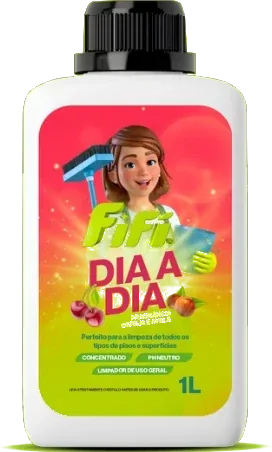
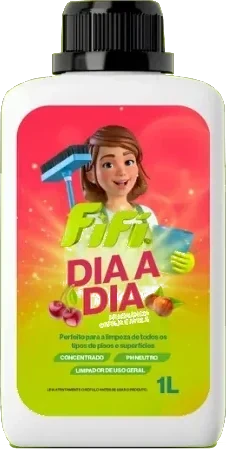
fix(distribuidor): gôndola padronizada, formulário em 320px e prévia de compartilhamento atual
- Gôndola: legenda também na prateleira de 5L (Nanotecnologia · Linha completa) e sem o
  "prato" no pé de nenhum frasco (tirado das 4 fotos Pet, dos 1L Dia a Dia/Organic
  Pro/Pós-Obra e do Citrus 500ml, que tinha um brilho fino).
- Fotos: furos de transparência dentro do rótulo preenchidos (1L Dia a Dia, Organic Pro,
  Pós-Obra e Citrus 500ml); no fundo escuro apareciam como pontos verdes.
- Mobile: formulário estourava 47px em telas de 320px (grades com 1fr não encolhiam
  abaixo da largura natural dos inputs). Agora minmax(0, 1fr).
- og-revenda.jpg regerada: a antiga ainda tinha "Leva 1 minuto" e a gôndola de 2
  prateleiras. og:image com ?v=2 para furar o cache do WhatsApp/Facebook.
- Logos com width/height na proporção real (evita o pulo do cabeçalho ao carregar).
- Mensagem de erro do formulário: recusa da API (400) pede para conferir os dados, não
  a conexão.

diff --git a/distribuidor/index.html b/distribuidor/index.html
@@ -15,7 +15,7 @@
   <meta property="og:site_name" content="FIFI Limpeza">
   <meta property="og:title" content="Seja revendedor FIFI">
   <meta property="og:description" content="Coloque na sua loja a linha de limpeza de verdade e mais consciente. Sem pedido mínimo.">
-  <meta property="og:image" content="https://mkt.fifilimpeza.com/distribuidor/img/og-revenda.jpg">
+  <meta property="og:image" content="https://mkt.fifilimpeza.com/distribuidor/img/og-revenda.jpg?v=2">
   <meta property="og:image:width" content="1200">
   <meta property="og:image:height" content="630">
   <meta property="og:image:alt" content="Prateleira com produtos de limpeza FIFI">
@@ -28,14 +28,14 @@
   </script>
   <!-- Liga as animações só se o movimento estiver liberado. Roda antes da pintura: sem piscar. -->
   <script>if(matchMedia("(prefers-reduced-motion: no-preference)").matches&&"IntersectionObserver"in window)document.documentElement.classList.add("js-motion")</script>
-  <link rel="stylesheet" href="styles.css?v=7">
+  <link rel="stylesheet" href="styles.css?v=9">
 </head>
 <body class="revisao">
 <a class="skip-link" href="#conteudo">Pular para o conteúdo</a>
 
 <header class="site-header">
   <a class="brand" href="#topo" aria-label="FIFI, início da página">
-    <img class="brand-mark" src="img/logo-fifi-branco.webp" alt="FIFI" width="92" height="30">
+    <img class="brand-mark" src="img/logo-fifi-branco.webp" alt="FIFI" width="57" height="28">
     <span class="brand-sub">Revenda</span>
   </a>
   <nav aria-label="Seções">
@@ -68,9 +68,9 @@
     <div class="shelf-unit">
       <div class="shelf shelf-top">
         <div class="shelf-items">
-          <img src="img/500ml-citrus-5d.webp" alt="" width="180" height="395">
+          <img src="img/500ml-citrus-5d.webp?v=2" alt="" width="163" height="392">
           <img src="img/500ml-vidro-vip.webp" alt="" width="203" height="480">
-          <img src="img/pet-textil-500ml.webp" alt="" width="208" height="480">
+          <img src="img/pet-textil-500ml.webp?v=2" alt="" width="197" height="472">
           <img src="img/500ml-limpa-rejunte.webp" alt="" width="203" height="480">
           <img src="img/500ml-odor-vip.webp" alt="" width="203" height="480">
         </div>
@@ -78,9 +78,9 @@
       </div>
       <div class="shelf shelf-bottom">
         <div class="shelf-items">
-          <img src="img/1l-dia-a-dia.webp" alt="" width="272" height="452">
-          <img src="img/pet-ph-neutro-1l.webp" alt="" width="296" height="480">
-          <img src="img/1l-pos-obra.webp" alt="" width="272" height="452">
+          <img src="img/1l-dia-a-dia.webp?v=2" alt="" width="226" height="449">
+          <img src="img/pet-ph-neutro-1l.webp?v=2" alt="" width="237" height="469">
+          <img src="img/1l-pos-obra.webp?v=2" alt="" width="226" height="449">
           <img src="img/1l-limpa-mofo.webp" alt="" width="250" height="480">
         </div>
         <div class="plank"><span class="tag">Biodegradável</span><span class="tag">Pet friendly</span></div>
@@ -91,7 +91,7 @@
           <img src="img/5l-organic-pro.webp" alt="" width="321" height="480">
           <img src="img/5l-limpa-musgo.webp" alt="" width="321" height="480">
         </div>
-        <div class="plank"></div>
+        <div class="plank"><span class="tag">Nanotecnologia</span><span class="tag">Linha completa</span></div>
       </div>
     </div>
   </div>
@@ -175,8 +175,8 @@
       <p class="chips">Multiuso · Desengordurante · Limpa-vidros · Limpeza de banheiro · Aromatizantes</p>
     </div>
     <ul class="products">
-      <li class="is-500ml"><span class="p-img"><img src="img/500ml-citrus-5d.webp" loading="lazy" alt="FIFI Citrus 5D 500ml" width="180" height="395" decoding="async"></span><span class="p-name">Citrus 5D<span class="p-size">500ml</span></span></li>
-      <li class="is-1l"><span class="p-img"><img src="img/1l-dia-a-dia.webp" loading="lazy" alt="FIFI Dia a Dia 1L" width="272" height="452" decoding="async"></span><span class="p-name">Dia a Dia<span class="p-size">1L</span></span></li>
+      <li class="is-500ml"><span class="p-img"><img src="img/500ml-citrus-5d.webp?v=2" loading="lazy" alt="FIFI Citrus 5D 500ml" width="163" height="392" decoding="async"></span><span class="p-name">Citrus 5D<span class="p-size">500ml</span></span></li>
+      <li class="is-1l"><span class="p-img"><img src="img/1l-dia-a-dia.webp?v=2" loading="lazy" alt="FIFI Dia a Dia 1L" width="226" height="449" decoding="async"></span><span class="p-name">Dia a Dia<span class="p-size">1L</span></span></li>
       <li class="is-500ml"><span class="p-img"><img src="img/500ml-vidro-vip.webp" loading="lazy" alt="FIFI Vidro Vip 500ml" width="203" height="480" decoding="async"></span><span class="p-name">Vidro Vip<span class="p-size">500ml</span></span></li>
       <li class="is-500ml"><span class="p-img"><img src="img/500ml-limpa-rejunte.webp" loading="lazy" alt="FIFI Limpa Rejunte 500ml" width="203" height="480" decoding="async"></span><span class="p-name">Limpa Rejunte<span class="p-size">500ml</span></span></li>
       <li class="is-500ml"><span class="p-img"><img src="img/500ml-odor-vip.webp" loading="lazy" alt="FIFI Odor Vip 500ml" width="203" height="480" decoding="async"></span><span class="p-name">Odor Vip<span class="p-size">500ml</span></span></li>
@@ -191,8 +191,8 @@
       <p class="chips">Pós-obra · Desincrustante ácido orgânico · Removedor de ferrugem · Pó de limpeza a seco</p>
     </div>
     <ul class="products">
-      <li class="is-1l"><span class="p-img"><img data-src="img/1l-pos-obra.webp" alt="FIFI Pós-Obra 1L" width="272" height="452" decoding="async"></span><span class="p-name">Pós-Obra<span class="p-size">1L</span></span></li>
-      <li class="is-1l"><span class="p-img"><img data-src="img/1l-organic-pro.webp" alt="FIFI Organic Pro 1L" width="272" height="452" decoding="async"></span><span class="p-name">Organic Pro<span class="p-size">1L</span></span></li>
+      <li class="is-1l"><span class="p-img"><img data-src="img/1l-pos-obra.webp?v=2" alt="FIFI Pós-Obra 1L" width="226" height="449" decoding="async"></span><span class="p-name">Pós-Obra<span class="p-size">1L</span></span></li>
+      <li class="is-1l"><span class="p-img"><img data-src="img/1l-organic-pro.webp?v=2" alt="FIFI Organic Pro 1L" width="226" height="449" decoding="async"></span><span class="p-name">Organic Pro<span class="p-size">1L</span></span></li>
       <li class="is-500ml"><span class="p-img"><img data-src="img/500ml-bye-ferrugem.webp" alt="FIFI Bye Ferrugem 500ml" width="203" height="480" decoding="async"></span><span class="p-name">Bye Ferrugem<span class="p-size">500ml</span></span></li>
       <li class="is-500ml"><span class="p-img"><img data-src="img/500ml-limpa-mofo.webp" alt="FIFI Limpa Mofo 500ml" width="203" height="480" decoding="async"></span><span class="p-name">Limpa Mofo<span class="p-size">500ml</span></span></li>
       <li class="is-500ml"><span class="p-img"><img data-src="img/500ml-limpa-musgo.webp" alt="FIFI Limpa Musgo 500ml" width="203" height="480" decoding="async"></span><span class="p-name">Limpa Musgo<span class="p-size">500ml</span></span></li>
@@ -206,10 +206,10 @@
       <p class="chips">Limpador pH neutro · Removedor de odor · Spray têxtil para casas com pets</p>
     </div>
     <ul class="products">
-      <li class="is-1l"><span class="p-img"><img data-src="img/pet-ph-neutro-1l.webp" alt="FIFI Pet pH Neutro 1L" width="296" height="480" decoding="async"></span><span class="p-name">Pet pH Neutro<span class="p-size">1L</span></span></li>
-      <li class="is-1l"><span class="p-img"><img data-src="img/pet-canil-1l.webp" alt="FIFI Pet Canil 1L" width="297" height="480" decoding="async"></span><span class="p-name">Pet Canil<span class="p-size">1L</span></span></li>
-      <li class="is-500ml"><span class="p-img"><img data-src="img/pet-odor-block-500ml.webp" alt="FIFI Pet Odor Block 500ml" width="208" height="480" decoding="async"></span><span class="p-name">Pet Odor Block<span class="p-size">500ml</span></span></li>
-      <li class="is-500ml"><span class="p-img"><img data-src="img/pet-textil-500ml.webp" alt="FIFI Pet Têxtil 500ml" width="208" height="480" decoding="async"></span><span class="p-name">Pet Têxtil<span class="p-size">500ml</span></span></li>
+      <li class="is-1l"><span class="p-img"><img data-src="img/pet-ph-neutro-1l.webp?v=2" alt="FIFI Pet pH Neutro 1L" width="237" height="469" decoding="async"></span><span class="p-name">Pet pH Neutro<span class="p-size">1L</span></span></li>
+      <li class="is-1l"><span class="p-img"><img data-src="img/pet-canil-1l.webp?v=2" alt="FIFI Pet Canil 1L" width="235" height="469" decoding="async"></span><span class="p-name">Pet Canil<span class="p-size">1L</span></span></li>
+      <li class="is-500ml"><span class="p-img"><img data-src="img/pet-odor-block-500ml.webp?v=2" alt="FIFI Pet Odor Block 500ml" width="197" height="472" decoding="async"></span><span class="p-name">Pet Odor Block<span class="p-size">500ml</span></span></li>
+      <li class="is-500ml"><span class="p-img"><img data-src="img/pet-textil-500ml.webp?v=2" alt="FIFI Pet Têxtil 500ml" width="197" height="472" decoding="async"></span><span class="p-name">Pet Têxtil<span class="p-size">500ml</span></span></li>
     </ul>
   </div>
   <a class="button button-dark" href="#formulario">Peça o catálogo e as condições</a>
@@ -297,7 +297,7 @@
 <!-- S6 · QUEM É A FIFI -->
 <section class="section about">
   <div class="about-grid">
-    <img class="about-logo" src="img/logo-fifi.webp" alt="FIFI" width="280" height="92" loading="lazy">
+    <img class="about-logo" src="img/logo-fifi.webp" alt="FIFI" width="280" height="137" loading="lazy">
     <div>
       <h2>Uma marca de limpeza de Brusque/SC, feita para quem cobra resultado.</h2>
       <p>A FIFI Limpeza <span class="pend" data-nota="A FIFI fabrica? Se sim, trocar por &quot;fabrica&quot;">desenvolve</span> produtos para uso doméstico e profissional, com fórmulas de alta performance, foco em rendimento e ingredientes de origem vegetal em boa parte da linha.</p>
@@ -407,7 +407,7 @@
 </main>
 
 <footer class="site-footer">
-  <img src="img/logo-fifi-branco.webp" alt="FIFI" width="74" height="24" loading="lazy">
+  <img src="img/logo-fifi-branco.webp" alt="FIFI" width="45" height="22" loading="lazy">
   <p>FIFI Limpeza · Brusque/SC</p>
   <a href="https://www.fifilimpeza.com" target="_blank" rel="noopener">fifilimpeza.com</a>
 </footer>

diff --git a/distribuidor/styles.css b/distribuidor/styles.css
@@ -192,6 +192,9 @@ h1 em, h2 em { color: var(--lime); font-style: italic; padding-right: .08em; }
 .shelf-bottom .shelf-items img { height: 29cqw; }
 /* Galão de 5L: o mais alto e o mais largo, fica na base como na gôndola de verdade. Cabem 3. */
 .shelf-base .shelf-items img { height: 36cqw; }
+/* As etiquetas penduram abaixo da última tábua: mais respiro no pé da gôndola do hero.
+   Com limites: no padding da própria gôndola o cqw mede a tela, não a gôndola. */
+.hero .shelf-unit { padding-bottom: clamp(48px, 4.5cqw, 64px); }
 .plank {
   position: relative; height: 4.2cqw; margin-inline: -2cqw;
   background: linear-gradient(180deg, var(--white), var(--wood));
@@ -414,11 +417,11 @@ h1 em, h2 em { color: var(--lime); font-style: italic; padding-right: .08em; }
 .lead-form {
   background: var(--white); color: var(--ink);
   border-radius: var(--radius-lg); padding: clamp(22px, 3vw, 40px);
-  display: grid; gap: var(--space-lg);
+  display: grid; grid-template-columns: minmax(0, 1fr); gap: var(--space-lg);
   box-shadow: 0 40px 80px -40px oklch(5% 0.03 166 / .8);
 }
-.field { display: grid; gap: 6px; }
-.field-row { display: grid; grid-template-columns: 1fr 1fr; gap: var(--space-lg); }
+.field { display: grid; grid-template-columns: minmax(0, 1fr); gap: 6px; min-width: 0; }
+.field-row { display: grid; grid-template-columns: minmax(0, 1fr) minmax(0, 1fr); gap: var(--space-lg); }
 .field label, .field legend { font-size: .82rem; font-weight: 650; color: var(--green-900); padding: 0; }
 .field legend { margin-bottom: 8px; }
 .field input:not([type="radio"]) {
@@ -548,6 +551,8 @@ h1 em, h2 em { color: var(--lime); font-style: italic; padding-right: .08em; }
 .shelf-items img:nth-child(4) { --i: 3; } .shelf-items img:nth-child(5) { --i: 4; }
 .js-motion .plank .tag { animation: swing 1s var(--ease) 1s both; }
 .js-motion .plank .tag + .tag { animation-delay: 1.1s; }
+.js-motion .shelf-base .plank .tag { animation-delay: 1.2s; }
+.js-motion .shelf-base .plank .tag + .tag { animation-delay: 1.3s; }
 .js-motion .panel.enter li { animation: rise .6s var(--ease) both; animation-delay: calc(var(--n, 0) * 50ms); }
 
 @media (prefers-reduced-motion: reduce) {
@@ -573,7 +578,8 @@ h1 em, h2 em { color: var(--lime); font-style: italic; padding-right: .08em; }
   .site-header .button { min-height: 38px; padding-inline: 16px; font-size: .8rem; }
   .brand-mark { height: 24px; }
   .hero-actions .button { width: 100%; }
-  .why-grid, .about-grid, .faq-grid, .final-grid { grid-template-columns: 1fr; }
+  /* minmax(0, 1fr): com 1fr puro a coluna não encolhe abaixo da largura natural dos campos e estourava em 320px. */
+  .why-grid, .about-grid, .faq-grid, .final-grid { grid-template-columns: minmax(0, 1fr); }
   .faq-head { position: static; }
   .about-logo { justify-self: start; width: 180px; }
   .benefit-grid, .store-grid { grid-template-columns: 1fr; }
@@ -583,7 +589,7 @@ h1 em, h2 em { color: var(--lime); font-style: italic; padding-right: .08em; }
     background: repeating-linear-gradient(180deg, var(--green-700) 0 8px, transparent 8px 16px); }
   .step-list li { grid-template-columns: 56px 1fr; column-gap: var(--space-lg); row-gap: 4px; }
   .step-num { grid-row: span 2; margin: 0; }
-  .field-row { grid-template-columns: 1fr; }
+  .field-row { grid-template-columns: minmax(0, 1fr); }
   /* Mobile: rolagem lateral de produtos, a tábua acompanha. */
   .products { --img-h: 160px; justify-content: flex-start; overflow-x: auto; scroll-snap-type: x mandatory;
     margin-inline: -20px; padding: 16px 20px 16px; scrollbar-width: none; }

diff --git a/distribuidor/obrigado.html b/distribuidor/obrigado.html
@@ -7,7 +7,7 @@
   <meta name="robots" content="noindex">
   <meta name="theme-color" content="#0b3a2c">
   <link rel="icon" href="img/favicon.png">
-  <link rel="stylesheet" href="styles.css?v=7">
+  <link rel="stylesheet" href="styles.css?v=9">
   <style>
     .thanks {
       min-height: calc(100svh - var(--header-h));
@@ -33,7 +33,7 @@
 <body>
 <header class="site-header">
   <a class="brand" href="./" aria-label="FIFI, voltar para a página de revenda">
-    <img class="brand-mark" src="img/logo-fifi-branco.webp" alt="FIFI" width="92" height="30">
+    <img class="brand-mark" src="img/logo-fifi-branco.webp" alt="FIFI" width="57" height="28">
     <span class="brand-sub">Revenda</span>
   </a>
 </header>
@@ -50,9 +50,9 @@
     <div class="shelf-unit">
       <div class="shelf shelf-top">
         <div class="shelf-items">
-          <img src="img/500ml-citrus-5d.webp" alt="" width="180" height="420">
+          <img src="img/500ml-citrus-5d.webp?v=2" alt="" width="163" height="392">
           <img src="img/500ml-vidro-vip.webp" alt="" width="180" height="420">
-          <img src="img/pet-textil-500ml.webp" alt="" width="180" height="420">
+          <img src="img/pet-textil-500ml.webp?v=2" alt="" width="197" height="472">
           <img src="img/500ml-limpa-rejunte.webp" alt="" width="180" height="420">
         </div>
         <div class="plank"></div>

diff --git a/distribuidor/script.js b/distribuidor/script.js
@@ -163,8 +163,11 @@ form.addEventListener("submit", async e => {
     // Libera o botão "Ver catálogo" do obrigado.html só para quem enviou o formulário.
     try { sessionStorage.setItem("fifi_revenda_enviado", "1"); } catch {}
     window.location.href = "obrigado.html";
-  } catch {
-    erro.textContent = "Não conseguimos enviar agora. Confira sua conexão e tente de novo.";
+  } catch (falha) {
+    // 400 = a API recusou os dados (validação do servidor); o resto é rede ou servidor fora.
+    erro.textContent = falha && falha.message === "400"
+      ? "Confira os dados informados e tente de novo."
+      : "Não conseguimos enviar agora. Confira sua conexão e tente de novo.";
     erro.hidden = false;
     enviando = false; botao.disabled = false; botao.textContent = rotulo;
   }
